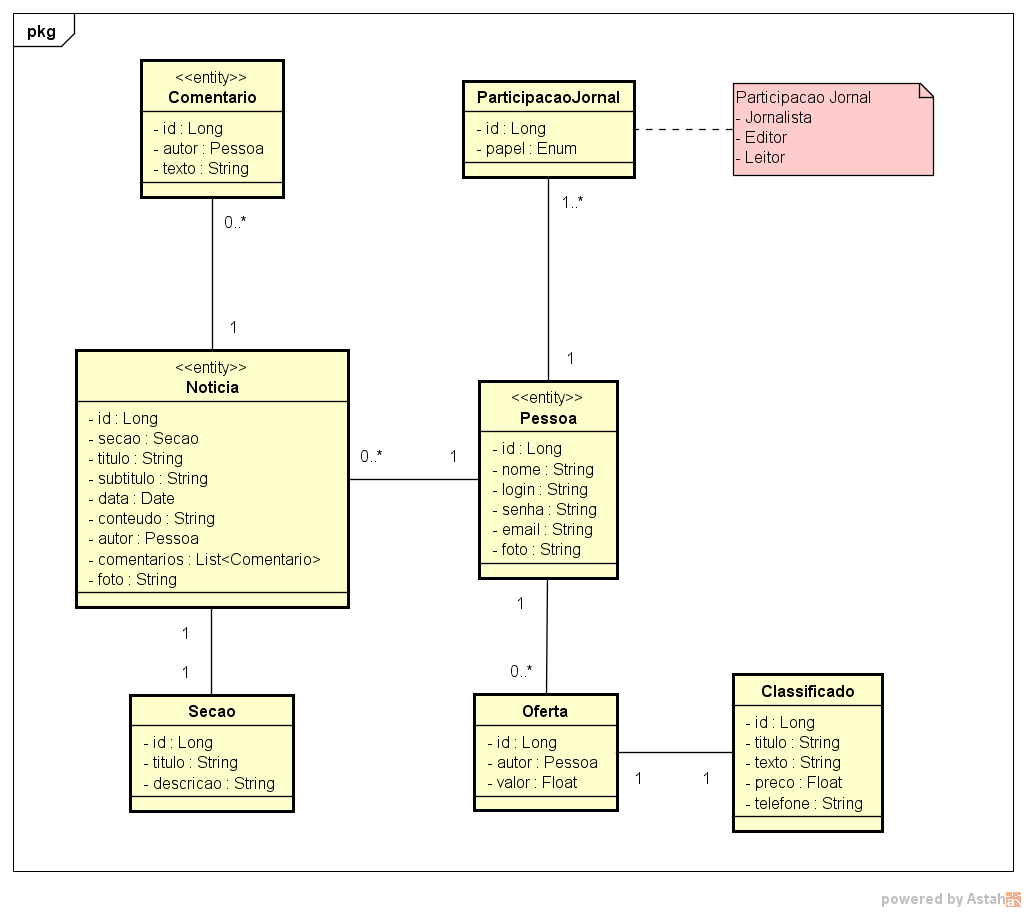
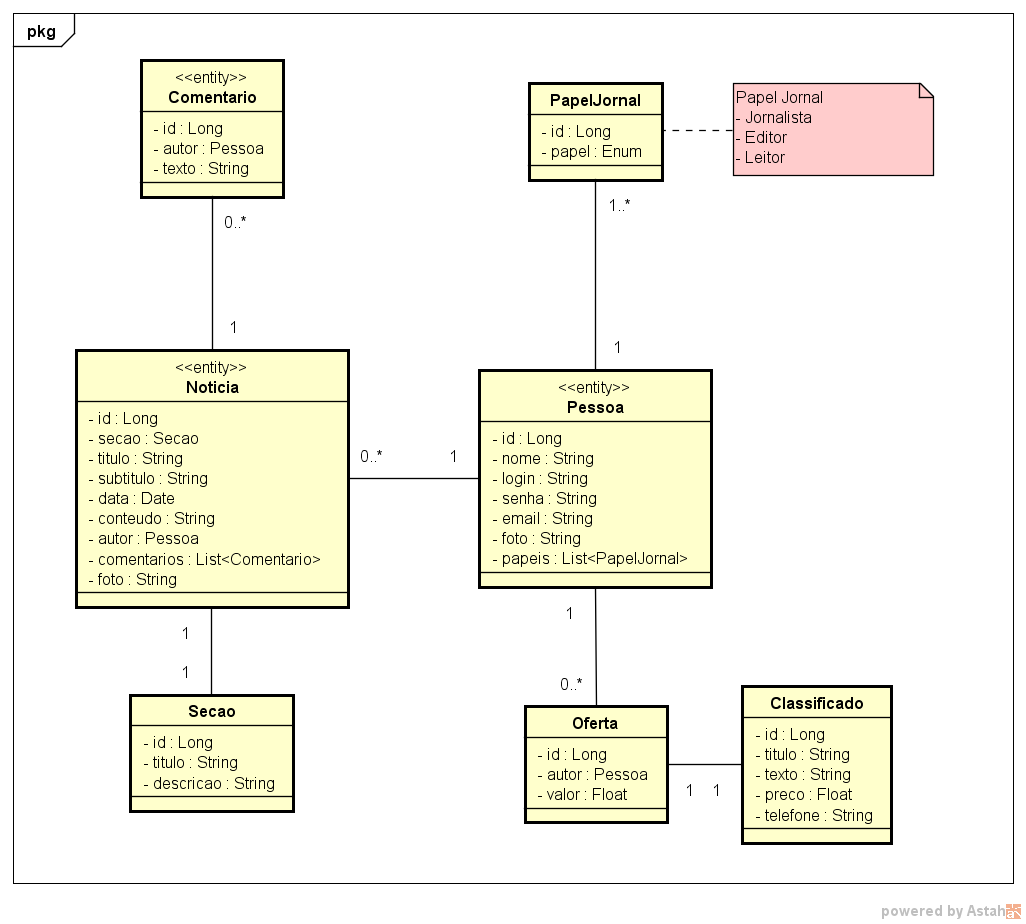
Atualizacao das Classes

diff --git a/src/main/java/br/ufc/model/Pessoa.java b/src/main/java/br/ufc/model/Pessoa.java
@@ -1,5 +1,7 @@
 package br.ufc.model;
 
+import java.util.List;
+
 import javax.persistence.Column;
 import javax.persistence.Entity;
 import javax.persistence.GeneratedValue;
@@ -7,7 +9,7 @@ import javax.persistence.GenerationType;
 import javax.persistence.Id;
 
 @Entity
-public class Usuario {
+public class Pessoa {
 	
 	@Id
 	@Column(name = "id")
@@ -15,11 +17,13 @@ public class Usuario {
 	private Long id;
 	
 	private String Nome;
-	private Tipo funcaoUsuario;
+	private Papel papel;
 	private String descricao;
 	private String login;
 	private String senha;
-	
+	private String email;
+	private String foto;
+	private List<PapelJornal> papeis;
 	public Long getId() {
 		return id;
 	}
@@ -32,11 +36,11 @@ public class Usuario {
 	public void setNome(String nome) {
 		Nome = nome;
 	}
-	public Tipo getFuncaoUsuario() {
-		return funcaoUsuario;
+	public Papel getPapel() {
+		return papel;
 	}
-	public void setFuncaoUsuario(Tipo funcaoUsuario) {
-		this.funcaoUsuario = funcaoUsuario;
+	public void setPapel(Papel papel) {
+		this.papel = papel;
 	}
 	public String getDescricao() {
 		return descricao;
@@ -56,5 +60,23 @@ public class Usuario {
 	public void setSenha(String senha) {
 		this.senha = senha;
 	}
-
+	public String getEmail() {
+		return email;
+	}
+	public void setEmail(String email) {
+		this.email = email;
+	}
+	public String getFoto() {
+		return foto;
+	}
+	public void setFoto(String foto) {
+		this.foto = foto;
+	}
+	public List<PapelJornal> getPapeis() {
+		return papeis;
+	}
+	public void setPapeis(List<PapelJornal> papeis) {
+		this.papeis = papeis;
+	}
+	
 }

diff --git a/src/main/java/br/ufc/model/Classificado.java b/src/main/java/br/ufc/model/Classificado.java
@@ -9,19 +9,17 @@ import javax.persistence.GenerationType;
 import javax.persistence.Id;
 
 @Entity
-public class Anuncio {
+public class Classificado {
 	
 	@Id
 	@Column(name = "id")
 	@GeneratedValue(strategy = GenerationType.AUTO)
 	private Long id;
 	
-	private Usuario autor;
-	private Categoria categoria;
 	private String titulo;
-	private Date data;
 	private String conteudo;
-	
+	private Float preco;
+	private String telefone;
 	public Long getId() {
 		return id;
 	}
@@ -34,29 +32,23 @@ public class Anuncio {
 	public void setTitulo(String titulo) {
 		this.titulo = titulo;
 	}
-	public Date getData() {
-		return data;
-	}
-	public void setData(Date data) {
-		this.data = data;
-	}
-	public Usuario getAutor() {
-		return autor;
-	}
-	public void setAutor(Usuario autor) {
-		this.autor = autor;
-	}
 	public String getConteudo() {
 		return conteudo;
 	}
 	public void setConteudo(String conteudo) {
 		this.conteudo = conteudo;
 	}
-	public Categoria getCategoria() {
-		return categoria;
+	public Float getPreco() {
+		return preco;
 	}
-	public void setCategoria(Categoria categoria) {
-		this.categoria = categoria;
+	public void setPreco(Float preco) {
+		this.preco = preco;
 	}
-	
+	public String getTelefone() {
+		return telefone;
+	}
+	public void setTelefone(String telefone) {
+		this.telefone = telefone;
+	}
+		
 }

diff --git a/src/main/java/br/ufc/model/Noticia.java b/src/main/java/br/ufc/model/Noticia.java
@@ -23,9 +23,10 @@ public class Noticia {
 	private Date data;
 	private String subtitulo;
 	private String conteudo;
-	private Usuario autor;
-	private Categoria categoria;
+	private Pessoa autor;
+	private Secao secao;
 	private List<Comentario> comentariosNoticia = new ArrayList<Comentario>();
+	private String foto;
 	
 	public Long getId() {
 		return id;
@@ -57,17 +58,24 @@ public class Noticia {
 	public void setConteudo(String conteudo) {
 		this.conteudo = conteudo;
 	}
-	public Usuario getAutor() {
+	public Pessoa getAutor() {
 		return autor;
 	}
-	public void setAutor(Usuario autor) {
+	public void setAutor(Pessoa autor) {
 		this.autor = autor;
 	}
-	public Categoria getCategoria() {
-		return categoria;
+	
+	public Secao getSecao() {
+		return secao;
 	}
-	public void setCategoria(Categoria categoria) {
-		this.categoria = categoria;
+	public void setSecao(Secao secao) {
+		this.secao = secao;
+	}
+	public String getFoto() {
+		return foto;
+	}
+	public void setFoto(String foto) {
+		this.foto = foto;
 	}
 	public List<Comentario> getComentariosNoticia() {
 		return comentariosNoticia;

diff --git a/src/main/java/br/ufc/service/NoticiaService.java b/src/main/java/br/ufc/service/NoticiaService.java
@@ -5,7 +5,7 @@ import java.util.List;
 import org.springframework.beans.factory.annotation.Autowired;
 import org.springframework.stereotype.Service;
 
-import br.ufc.model.Categoria;
+import br.ufc.model.Secao;
 import br.ufc.model.Noticia;
 import br.ufc.repository.NoticiaRepository;
 
@@ -36,7 +36,7 @@ public class NoticiaService {
 		return JornalRepository.findNoticiaByNome(nome);
 	}
 
-	public List<Noticia> getByCategoria(Categoria categoria) {
+	public List<Noticia> getByCategoria(Secao categoria) {
 		return JornalRepository.findNoticiaByCategoria(categoria);
 	}
 }

diff --git a/src/main/java/br/ufc/model/Comentario.java b/src/main/java/br/ufc/model/Comentario.java
@@ -14,7 +14,7 @@ public class Comentario {
 	@GeneratedValue(strategy = GenerationType.AUTO)
 	private Long id;
 	
-	private Usuario autor;
+	private Pessoa autor;
 	private String conteudo;
 	
 	public Long getId() {
@@ -23,10 +23,10 @@ public class Comentario {
 	public void setId(Long id) {
 		this.id = id;
 	}
-	public Usuario getAutor() {
+	public Pessoa getAutor() {
 		return autor;
 	}
-	public void setAutor(Usuario usuario) {
+	public void setAutor(Pessoa usuario) {
 		this.autor = autor;
 	}
 	public String getConteudo() {

diff --git a/src/main/java/br/ufc/repository/NoticiaRepository.java b/src/main/java/br/ufc/repository/NoticiaRepository.java
@@ -5,11 +5,11 @@ import java.util.List;
 import org.springframework.data.repository.CrudRepository;
 import org.springframework.stereotype.Repository;
 
-import br.ufc.model.Categoria;
+import br.ufc.model.Secao;
 import br.ufc.model.Noticia;
 
 @Repository
 public interface NoticiaRepository extends CrudRepository<Noticia, Integer> {
-	public List<Noticia> findNoticiaByCategoria(Categoria categoria);
+	public List<Noticia> findNoticiaByCategoria(Secao categoria);
 	public List<Noticia> findNoticiaByNome(String nome);
 }

diff --git a/src/main/java/br/ufc/model/Oferta.java b/src/main/java/br/ufc/model/Oferta.java
@@ -1,0 +1,27 @@
+package br.ufc.model;
+
+public class Oferta {
+	
+	private Long id;
+	private Pessoa autor;
+	private Float valor;
+	public Long getId() {
+		return id;
+	}
+	public void setId(Long id) {
+		this.id = id;
+	}
+	public Pessoa getAutor() {
+		return autor;
+	}
+	public void setAutor(Pessoa autor) {
+		this.autor = autor;
+	}
+	public Float getValor() {
+		return valor;
+	}
+	public void setValor(Float valor) {
+		this.valor = valor;
+	}
+	
+}

diff --git a/src/main/java/br/ufc/model/PapelJornal.java b/src/main/java/br/ufc/model/PapelJornal.java
@@ -1,0 +1,23 @@
+package br.ufc.model;
+
+public class PapelJornal {
+	private Long id;
+	private Papel papel;
+	
+	public Long getId() {
+		return id;
+	}
+	
+	public void setId(Long id) {
+		this.id = id;
+	}
+	
+	public Papel getPapel() {
+		return papel;
+	}
+	
+	public void setPapel(Papel papel) {
+		this.papel = papel;
+	}
+
+}

diff --git a/src/main/java/br/ufc/model/Papel.java b/src/main/java/br/ufc/model/Papel.java
@@ -1,0 +1,19 @@
+package br.ufc.model;
+
+public enum Papel {
+	LEITOR("Leitor"), EDITOR("Editor"), JORNALISTA("Jornalista");
+	
+	private String papel;
+	
+	Papel(String papel){
+		this.setPapel(papel);;
+	}
+	
+	public String getPapel() {
+		return papel;
+	}
+
+	public void setPapel(String papel) {
+		this.papel = papel;
+	}	
+}

diff --git a/src/main/java/br/ufc/model/Secao.java b/src/main/java/br/ufc/model/Secao.java
@@ -7,7 +7,7 @@ import javax.persistence.GenerationType;
 import javax.persistence.Id;
 
 @Entity
-public class Categoria {
+public class Secao {
 	
 	@Id
 	@Column(name = "id")
